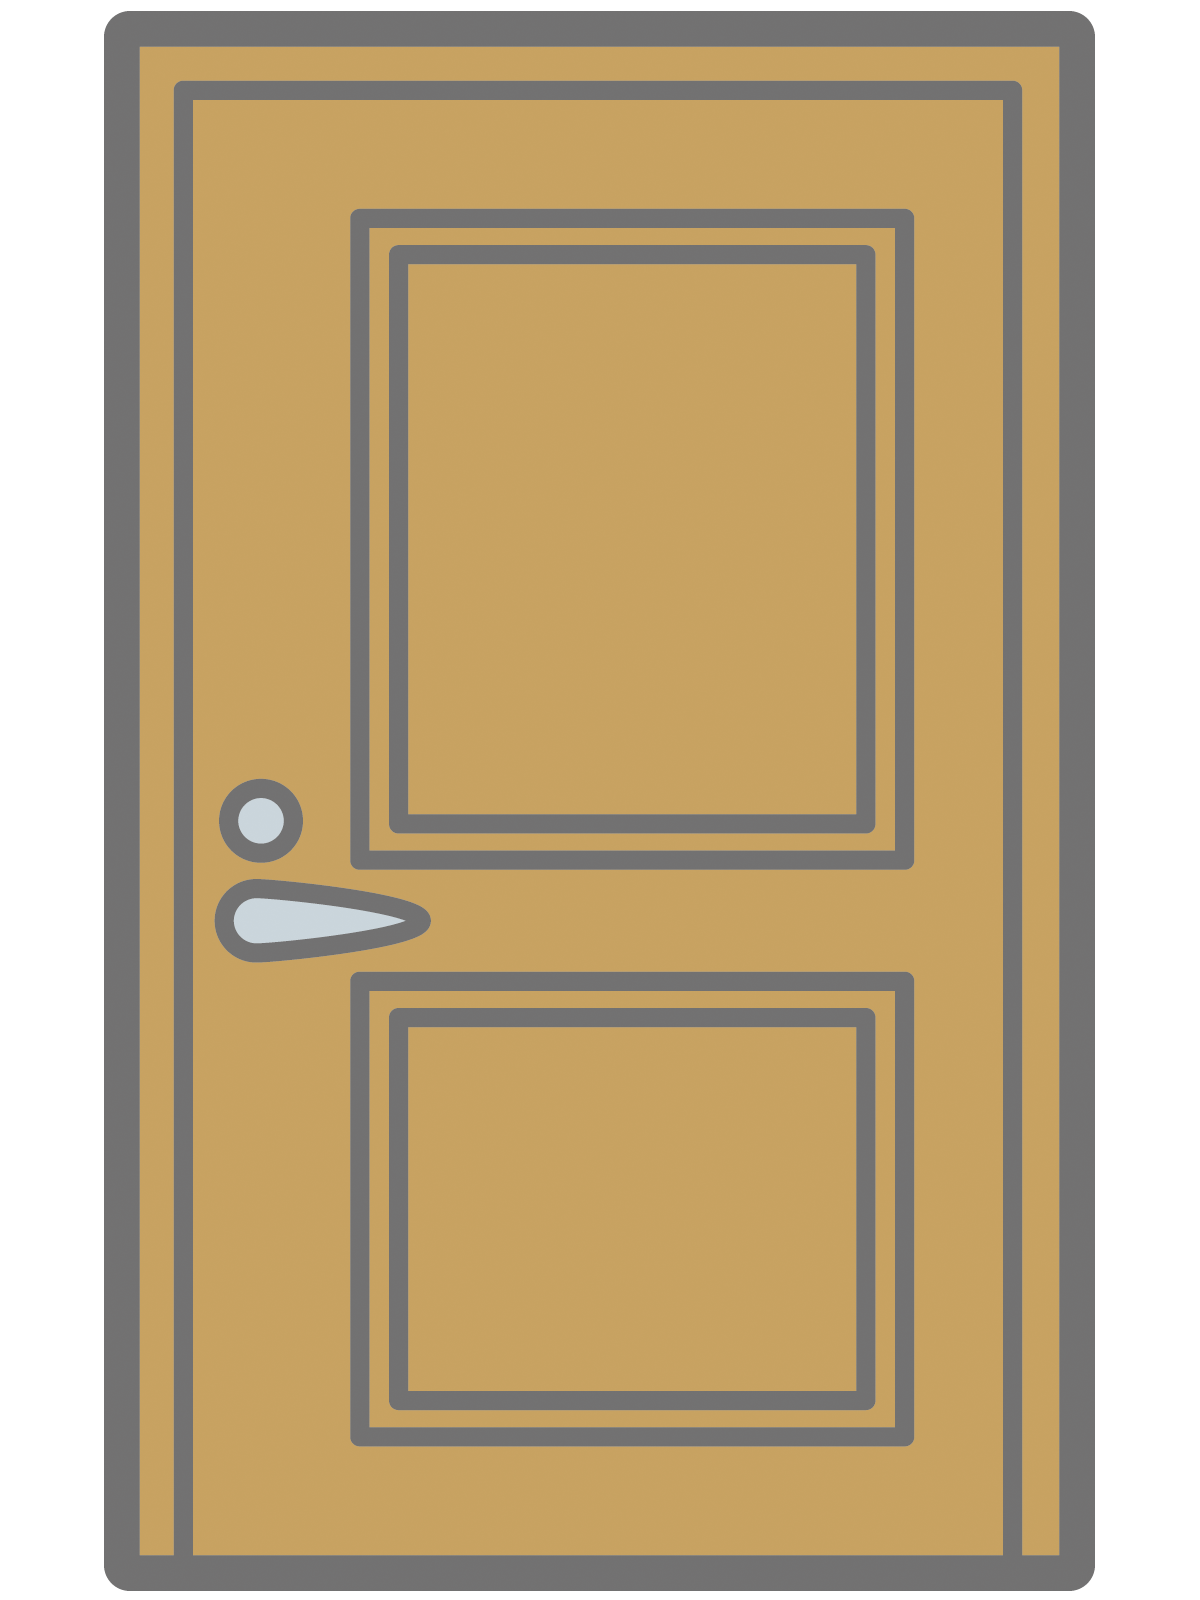
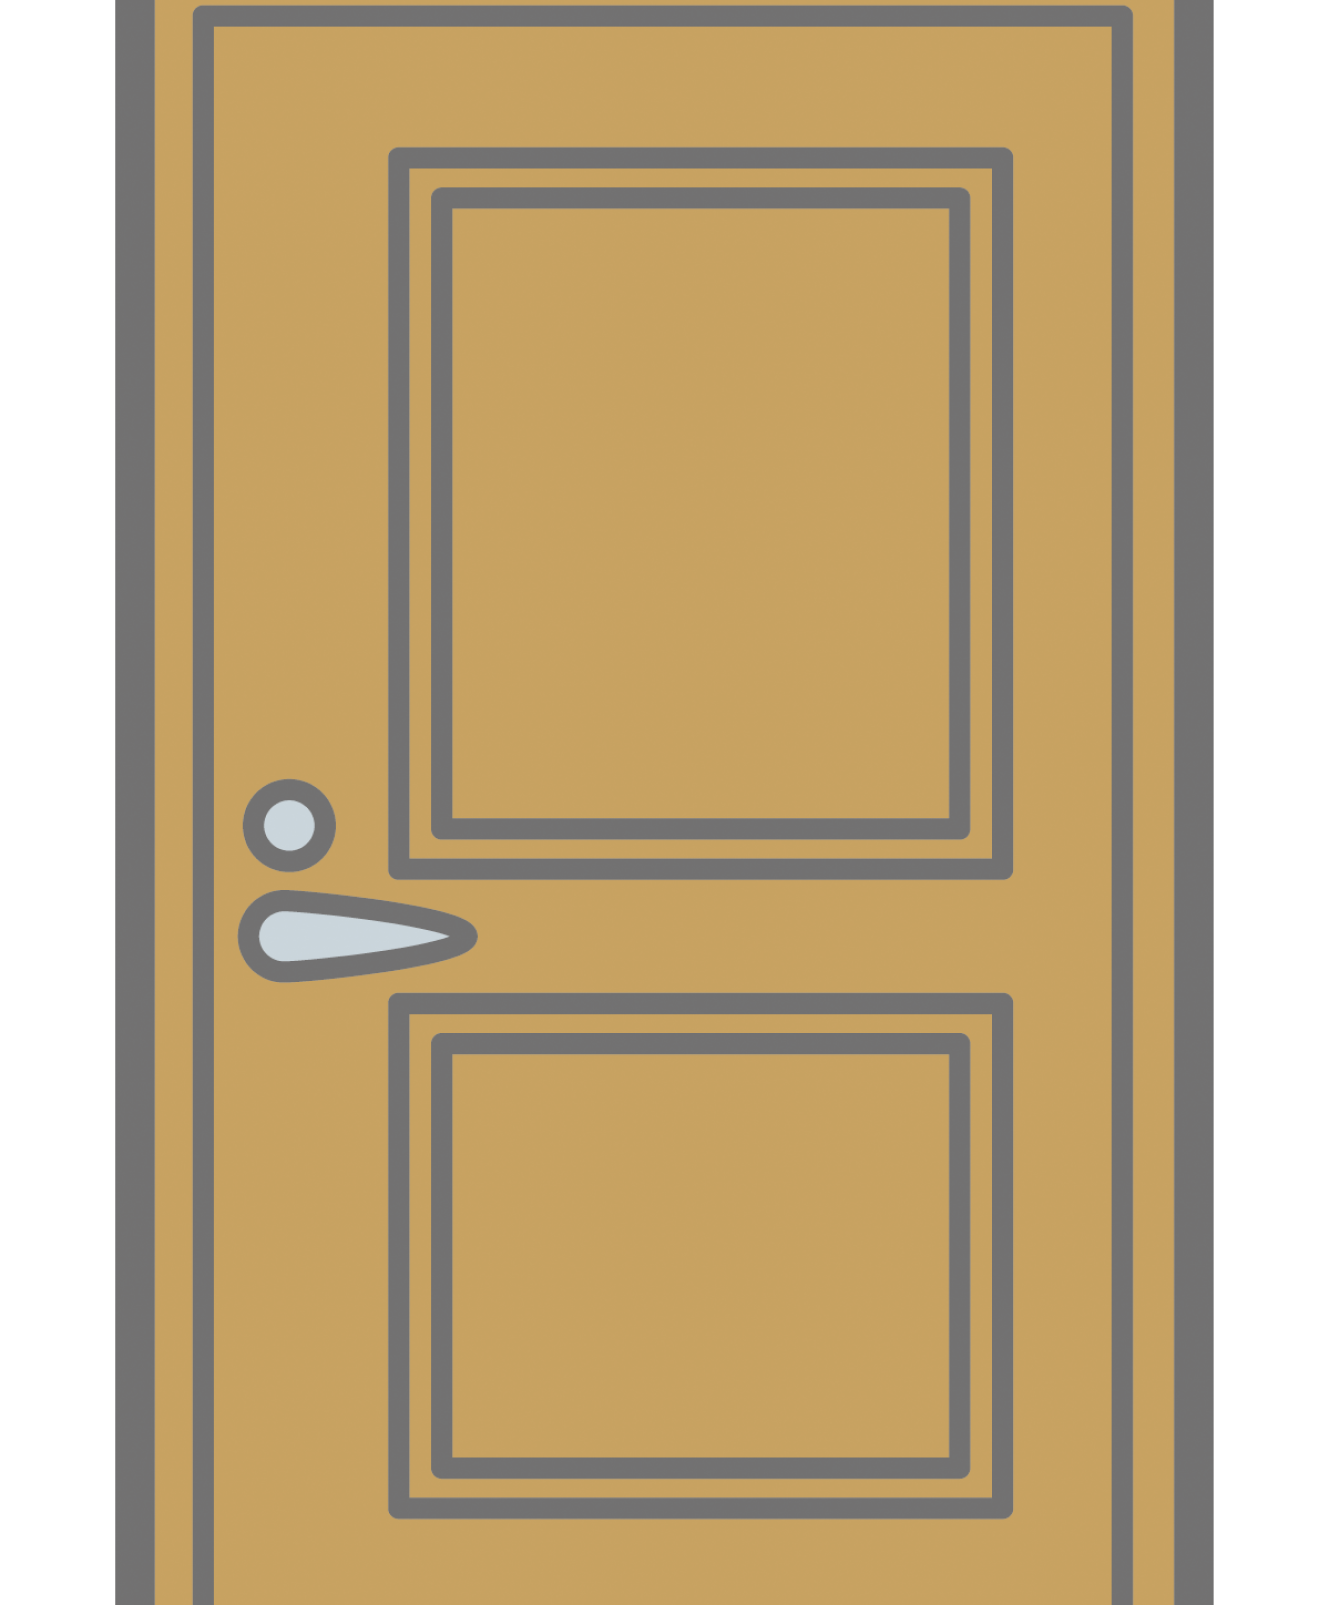
ドア画像変更、ドアのアニメーション追加、ドアを押したら画面遷移するように

diff --git a/Styles/select_attendance.css b/Styles/select_attendance.css
@@ -39,13 +39,15 @@ header img{
 main {
     width: 100%;
     display: flex;
-    justify-content: center;
-    align-items: center;
-    flex-grow: 1;
+    flex-wrap: wrap;
+    gap: 70px;
+    justify-content: flex-start;
+    align-items: flex-start;
+    /* flex-grow: 1; */
     padding-top: 20px; /* ヘッダーとフォームの間にスペースを追加 */
 }
 
-form {
+/* form {
     max-width: 400px;
     width: 100%;
     background-color: #fff;
@@ -53,7 +55,7 @@ form {
     border-radius: 5px;
     box-shadow: 0 0 10px rgba(0, 0, 0, 0.1);
     margin: 30px auto;
-}
+} */
 
 label {
     display: block;
@@ -74,24 +76,6 @@ select {
 
 input[type="file"] {
     padding: 5px;
-}
-
-#button {
-    text-align: center;
-}
-
-button {
-    background-color: rgb(18, 184, 240);
-    color: #fff;
-    padding: 10px 20px;
-    border: none;
-    border-radius: 3px;
-    cursor: pointer;
-    font-size: 16px;
-}
-
-button:hover {
-    background-color: rgb(18, 160, 220);
 }
 
 .drawer {
@@ -146,6 +130,7 @@ button:hover {
     border-radius: 4px;
     box-shadow: 0px 0px 10px rgba(0, 0, 0, 0.1);
     display: none;
+    z-index: 999;
 }
 
 .drawer-list {
@@ -187,4 +172,46 @@ header img {
 }
 
 /* --------ドアのモーション-------- */
+.door-container {
+    position: relative;
+    width : 120px;
+    height: 160px;
+    perspective: 1000px;
+    margin-bottom: 20px;
+    background: none;
+    border: none;
+}
+
+.door-container p {
+    font-size: 20px;
+    text-align: center;
+}
+
+.door-bg {
+    position: absolute;
+    width: 100%;
+    height: 100%;
+    background: url('../images/door_bg.png') no-repeat center center;
+    background-size: cover;
+    z-index: 1;
+}
+
+.door {
+    position: relative;
+    width: 100%;
+    height: 97%;
+    background: url('../images/door.png') no-repeat center center;
+    background-size: cover;
+    transform-origin: right;
+    transition: transform 0.5s ease;
+    z-index: 2;
+}
+
+.door-container:hover .door {
+    transform: rotateY(45deg);
+}
+
+button:focus {
+    outline: none;
+}
 /* --------ドアのモーション-------- */

diff --git a/select_attendance.php b/select_attendance.php
@@ -38,10 +38,17 @@
         </div>
     </header>
     <main>
-    <div class="door-wrap">
-        <!-- <img src="./images/door.png" alt="ドア" class="door"> -->
-        <!-- <img src="img/door_back.png" alt="ドアの縁" class="door-back"> -->
-    </div>
+        <form action="./attendance_check.php" method="POST">
+            <!-- このdoors-wrapper classをforeach文で回してほしい  -->
+            <div class="doors-wrapper">
+                <button type="submit" name="class" value="" class="door-container"> <!--valueの場所にクラスIDを入れて欲しい-->
+                    <p>IE2A</p> <!-- ここにクラス名を表示して欲しい -->
+                    <div class="door-bg"></div>
+                    <div class="door"></div>
+                </button>
+            </div>
+            <!-- end of foreach -->
+        </form>
     </main>
 </body>
 </html>
